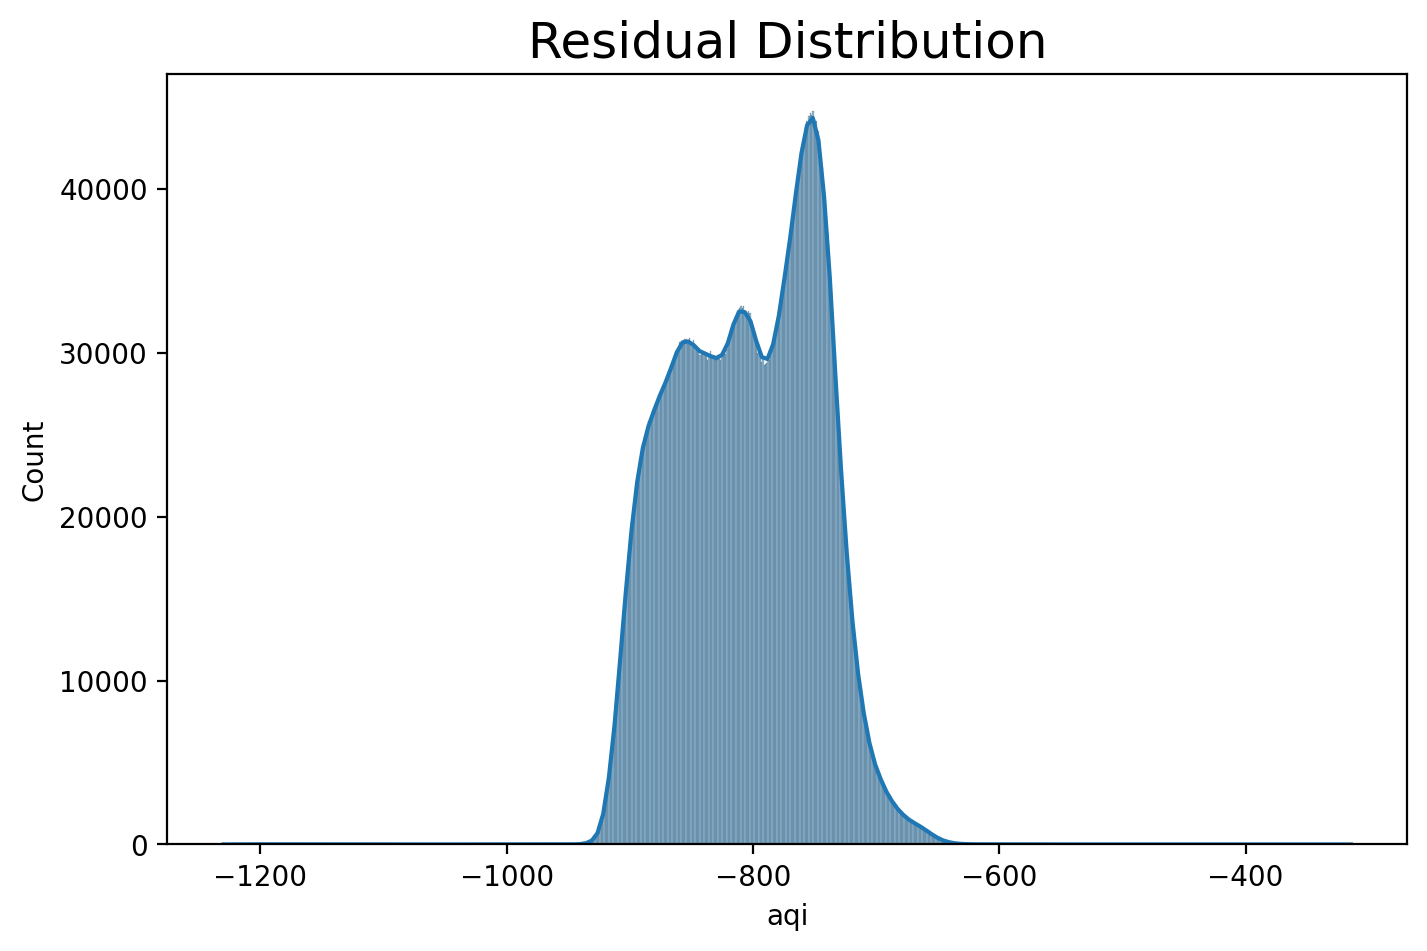
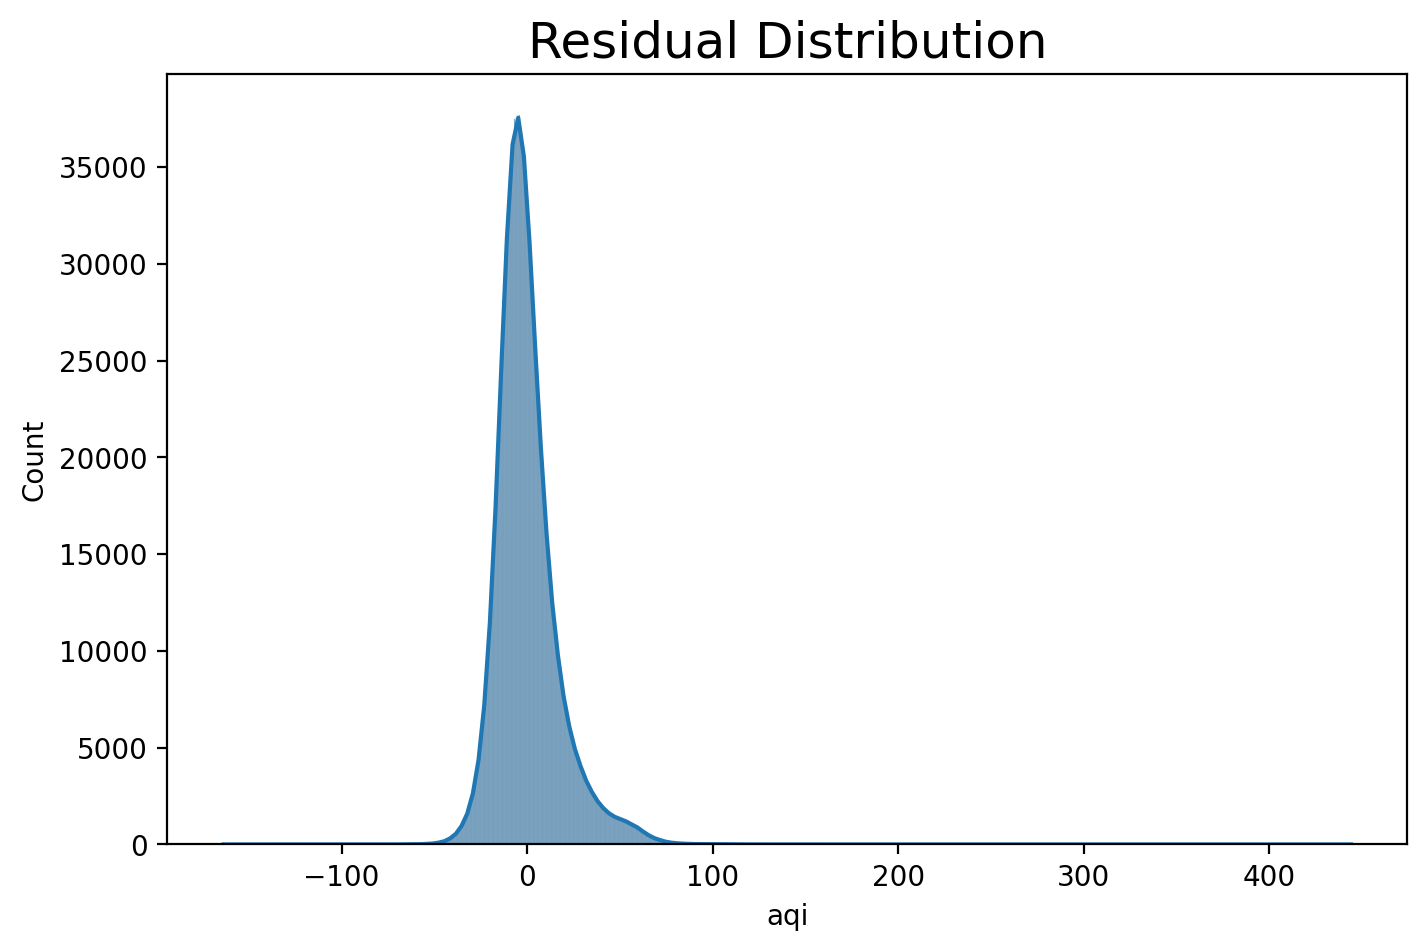
Fix some bugs.

diff --git a/src/main_visualization.py b/src/main_visualization.py
@@ -19,7 +19,7 @@ import pandas as pd
 import shap
 
 from src.config import MODEL_DIR, PROCESSED_DIR
-from src.utils.emoji_log import success
+from src.utils.emoji_log import info, save, success
 from src.visualization.feature_plot import (
     plot_correlation_heatmap,
     plot_feature_distributions,
@@ -42,16 +42,20 @@ def visualize_features(df, feature, model_type):
     """Generate feature-related plots."""
     plot_correlation_heatmap(df, f"{model_type}/corr_heatmap")
     plot_feature_distributions(df, feature, f"{model_type}/{feature}_dist")
+    save("Heatmap and feature distributions saved.")
 
 
 def visualize_model(df, model, model_type, feature_names):
     """Generate model evaluation plots."""
-    X = df[feature_names]
+    scaler = joblib.load(MODEL_DIR / "standard_scaler.pkl")
+    X_scaled = scaler.transform(df[feature_names])
+    X_scaled = pd.DataFrame(X_scaled, columns=feature_names)
+    y_pred = model.predict(X_scaled)
     y_true = df["aqi"]
-    y_pred = model.predict(X)
 
     plot_y_true_vs_pred(y_true, y_pred, f"{model_type}/true_vs_pred")
     plot_residuals(y_true, y_pred, f"{model_type}/residuals")
+    save("True vs predicted and residuals saved.")
 
 
 def visualize_shap(df, model, model_type, feature, feature_names):
@@ -60,7 +64,7 @@ def visualize_shap(df, model, model_type, feature, feature_names):
 
     # Detect if model is linear
     if model_type == "linear":
-        print("Skipping SHAP for Linear Regression")
+        info("Skipping SHAP for Linear Regression")
         return
 
     explainer = shap.TreeExplainer(model)
@@ -68,6 +72,7 @@ def visualize_shap(df, model, model_type, feature, feature_names):
 
     plot_shap_summary(shap_values, X, f"{model_type}/shap_summary")
     plot_shap_dependence(shap_values, X, feature, f"{model_type}/shap_{feature}")
+    save("SHAP summary and dependence saved.")
 
 
 def run_all_visualizations(model_type="linear"):

diff --git a/src/features/feature_engineering.py b/src/features/feature_engineering.py
@@ -107,13 +107,16 @@ def add_rolling_features(
 # -----------------------------
 def log_transform_features(df, cols=None):
     """Apply log1p transform to skewed pollutant features for modeling."""
+    target_col = "aqi"
+
     if cols is None:
         cols = [
             col
             for col in df.columns
             if any(k in col for k in ["pm", "so2", "o3", "co", "no"])
+            and col != target_col
         ]
-        
+
     # only select numerical column
     numeric_cols = df[cols].select_dtypes(include=["int64", "float64"]).columns
     for c in numeric_cols:
